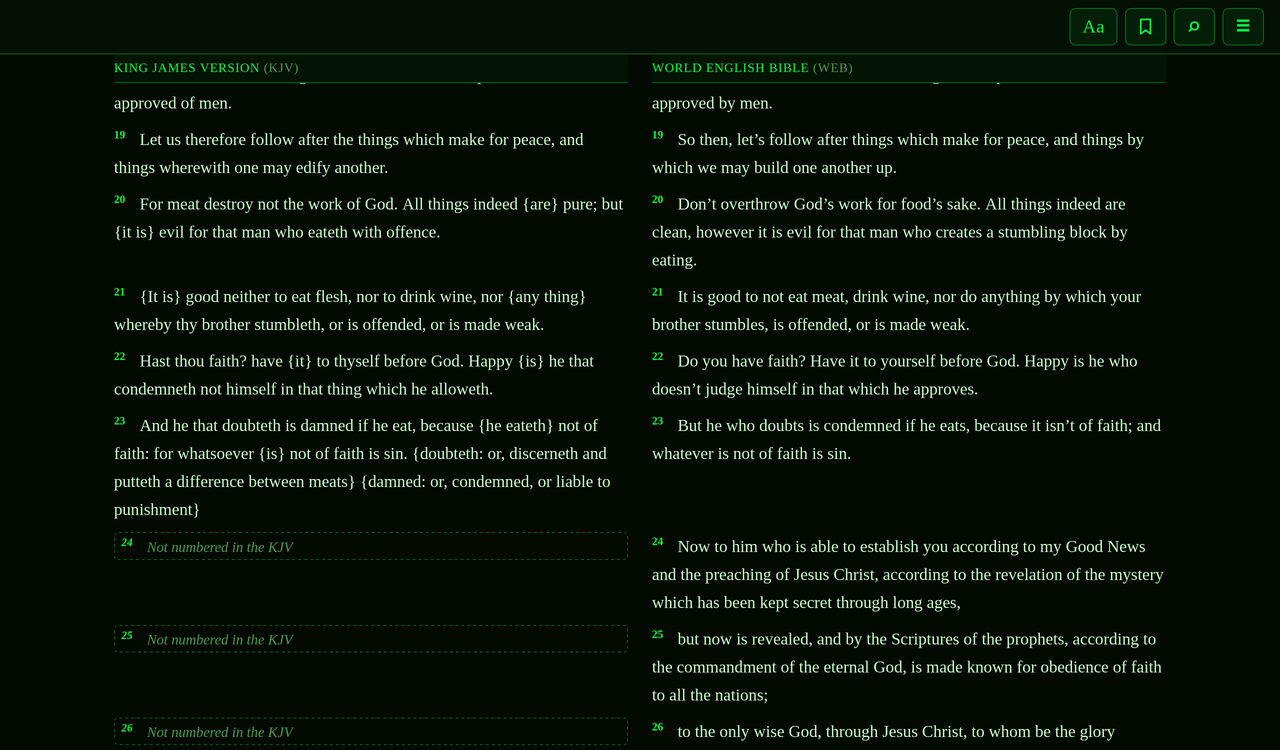
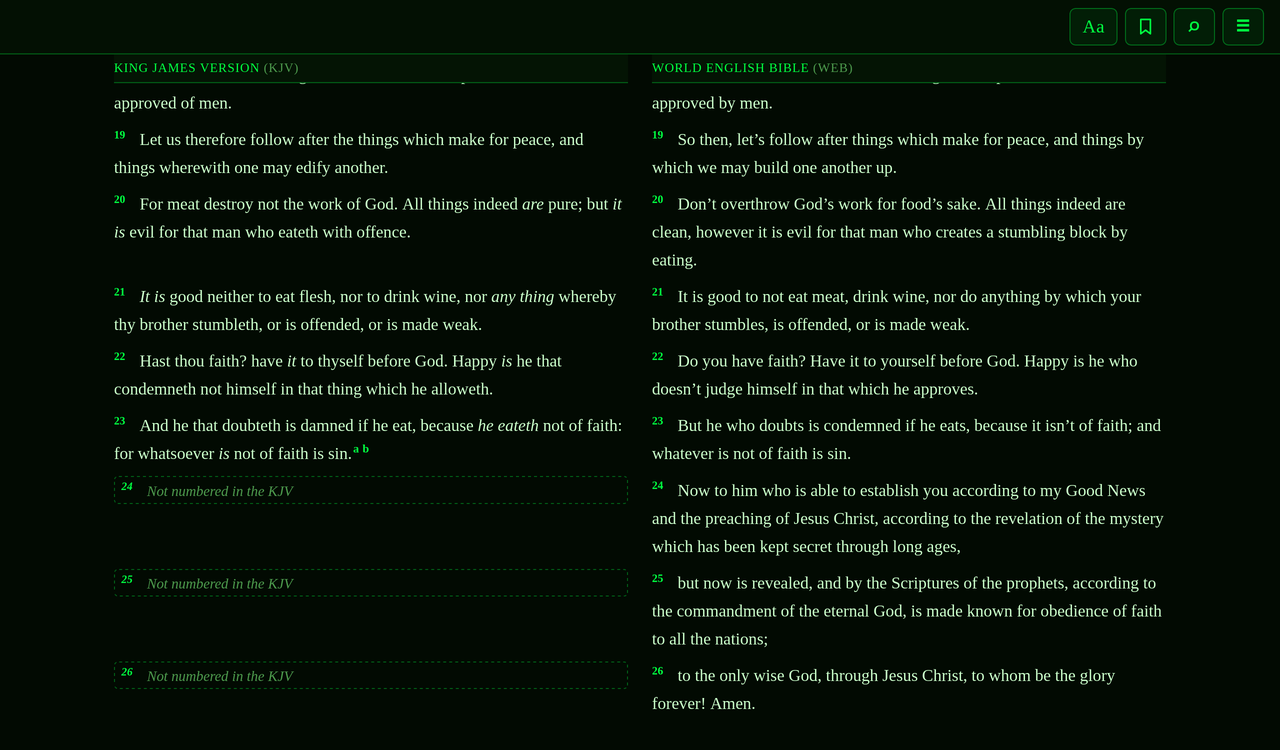
chore(release): bump version to 2.10.0 (#53)
Cargo.toml, Cargo.lock, tauri.conf.json and PKGBUILD pkgver: 2.9.1 -> 2.10.0 (pkgrel stays 1; PKGBUILD remains a draft, not AUR-published). The updater compares versions as numbers (its test has 2.9.0 < 2.10.0). The website shows version 2.10.0; Read in context says the KJV's supplied words are in italics and its margin notes are lettered footnotes, shown when you select a verse and listed at each chapter's end; Compare says the app shows the source's braces as print does, instead of as stored. Its compare image is recaptured at its old names and sizes (1600x1000, 800x500) with Psalms 23's italics, markers and Footnotes (KJV) section, with alt text to match. Its FAQ's "2.6 through 2.9 update themselves" stays true. The README adds a Footnotes (KJV) feature with a new screenshot (screenshots/footnotes.png: Psalms 23:4-6 with verse 6's footnote open and the chapter's Footnotes section). Copy gives the verse text, without the KJV's margin notes; search indexes the text as shown and 2.10.0 rebuilds the index once; Data provenance says the stored text keeps the markup, the reader, Copy, search and Export notes present it as print does, and the four verses with broken markup are shown as stored. Updates says 2.6.0 through 2.9.1 update themselves to 2.10.0 while 2.5.0 and older install it by hand once. reading-neighboring-chapters.png (1280x850), compare-translations.png (1280x750) and bookmarks.png (1280x850) showed KJV braces and are recaptured at their old sizes and framing,
[…]

diff --git a/site/index.html b/site/index.html
@@ -60,7 +60,7 @@
                         <a class="button button-primary" href="#download-windows">Download for Windows</a>
                         <a class="button button-secondary" href="#download-linux">Download for Linux</a>
                     </div>
-                    <p class="hero-note">Version 2.9.1, for 64-bit Windows and Linux computers. The Windows installer isn’t code-signed yet, so Windows will probably warn you before it runs. <a href="#faq-smartscreen">What to expect</a>.</p>
+                    <p class="hero-note">Version 2.10.0, for 64-bit Windows and Linux computers. The Windows installer isn’t code-signed yet, so Windows will probably warn you before it runs. <a href="#faq-smartscreen">What to expect</a>.</p>
                     <p class="touch-only touch-note">Gospel Getter is a desktop app for <strong>Windows and Linux computers</strong>. There’s no phone, tablet or Mac version. To install it, open this page on your computer.</p>
 
                     <ul class="facts">
@@ -92,6 +92,7 @@
                         <h3>Read in context</h3>
                         <p>The chapter you’re reading sits in the middle, with the chapters before and after it faded on either side, as in the picture above. Press <kbd>←</kbd> and <kbd>→</kbd> to turn chapters across the whole Bible, from Genesis 50 straight into Exodus 1. Or pick a book and chapter, or try a random chapter.</p>
                         <p>Click a verse to see related passages, and click one of them to read it in place. The cross-references come from OpenBible.info.</p>
+                        <p>In the KJV, words the translators supplied are in italics, as in printed KJVs, and its margin notes are lettered footnotes. Select a verse to read its notes, or find all of a chapter’s notes at its end.</p>
                     </div>
                 </div>
 
@@ -136,14 +137,14 @@
                     <div class="feature-text">
                         <h3>Compare KJV and WEB</h3>
                         <p>Press <kbd>C</kbd> to read the King James Version and the World English Bible side by side, one row per verse. Where only one translation numbers a verse, the other column says so instead of shifting anything.</p>
-                        <p>Both texts are stored exactly as their public-domain sources provide them. In the KJV that includes the source’s own bracketed notes, such as <code>{is}</code>.</p>
+                        <p>Both texts are stored exactly as their public-domain sources provide them. The KJV’s source marks supplied words and margin notes in braces, and the app shows them as print does: the words in italics, the notes as footnotes.</p>
                     </div>
                     <figure class="shot">
                         <img src="assets/compare-1600.webp"
                              srcset="assets/compare-800.webp 800w, assets/compare-1600.webp 1600w"
                              sizes="(min-width: 56rem) 42rem, calc(100vw - 2rem)"
                              width="1600" height="1000" loading="lazy" decoding="async"
-                             alt="Psalms 23 in compare mode in the Matrix theme: the King James Version and the World English Bible in two columns, one row per verse. The KJV column shows its source’s bracketed notes, such as “{is}”.">
+                             alt="Psalms 23 in compare mode in the Matrix theme: the King James Version and the World English Bible in two columns, one row per verse. The KJV column sets the words its translators supplied, such as “is” and “art”, in italics, with small letters marking its margin notes, which are listed under the psalm as “Footnotes (KJV)”.">
                     </figure>
                 </div>
             </div>
@@ -222,7 +223,7 @@
         <section class="section section-alt download" id="download" aria-labelledby="download-title">
             <div class="wrap">
                 <h2 id="download-title">Download Gospel Getter</h2>
-                <p class="release-line"><strong>Version 2.9.1.</strong> Free, for 64-bit Windows and Linux. <a href="https://github.com/tossbaws/gospel-getter/releases/latest">What’s new</a></p>
+                <p class="release-line"><strong>Version 2.10.0.</strong> Free, for 64-bit Windows and Linux. <a href="https://github.com/tossbaws/gospel-getter/releases/latest">What’s new</a></p>
                 <p class="touch-only touch-note">You seem to be on a phone or tablet. Gospel Getter runs on <strong>Windows and Linux computers</strong> only, so open this page on your computer to install it.</p>
 
                 <div class="platforms">

diff --git a/README.md b/README.md
@@ -9,7 +9,7 @@ at a time with the chapters before and after shown alongside, search the
 whole Bible, compare the two translations verse by verse, and copy,
 bookmark or write notes on passages. No account and no network needed.
 
-![The reading view in the Matrix theme: John 3 in the centre, with John 2 and John 4 faded on either side, under the chapter picker](screenshots/reading-neighboring-chapters.png)
+![The reading view in the Matrix theme: John 3 in the KJV in the centre, with John 2 and John 4 faded on either side, under the chapter picker. Supplied words such as "of" are in italics, and small letters after verses 3 and 7 mark their footnotes](screenshots/reading-neighboring-chapters.png)
 
 ## Features
 
@@ -26,8 +26,9 @@ bookmark or write notes on passages. No account and no network needed.
   current translation containing all your words, in Bible order, with the
   words highlighted.
 - **Copy verses with their reference.** Click a verse, Shift-click another
-  to select a range, then **Copy** or Ctrl+C. You get the text exactly as
-  stored, followed by e.g. `— John 3:16–18 (WEB)`.
+  to select a range, then **Copy** or Ctrl+C. You get the verse text (in
+  the KJV, without its margin notes), followed by e.g.
+  `— John 3:16–18 (WEB)`.
 - **Bookmarks.** Save a verse or range with **★ Bookmark**. Bookmarked
   verses get a ★, and the Bookmarks list in the Library (the bookmark
   button at the top, or Ctrl+B) reopens any of them in whichever
@@ -59,6 +60,14 @@ bookmark or write notes on passages. No account and no network needed.
   shifting anything.
 - **Cross-references.** Click a verse to see related passages, and click a
   citation to read it in place.
+- **Footnotes (KJV).** Translator-supplied words are in italics, as in
+  printed KJVs, and the margin notes are moved out of the text into
+  lettered footnotes. Select a verse (or click its letter) to see its
+  footnotes above its cross-references, and each chapter ends with a
+  Footnotes list of all of them, with the words each note is on in
+  italics. Copy and search use the verse text without the notes.
+
+  ![Psalm 23:4–6 in the KJV in the Matrix theme, with "art" in italics and small letters after verses 5 and 6. Verse 6 is selected: under the Copy, Bookmark and + Add note buttons, its Footnotes list "a for ever: Heb. to length of days" above its cross-references. Below the chapter, a Footnotes section lists 23:2a, 23:2b, 23:5a and 23:6a](screenshots/footnotes.png)
 - **Comfortable reading.** Six themes (Vaporwave, Classic Dark, Classic
   Light, Matrix, Beast Slayer, Hot Pink), four text sizes, three line
   spacings, and a distraction-free reading mode, all under **Aa** with the
@@ -95,7 +104,7 @@ bookmark or write notes on passages. No account and no network needed.
 
 ## A quick tour
 
-All six screenshots in this README, including the one at the top, use the
+All seven screenshots in this README, including the one at the top, use the
 Matrix theme. The other five themes are under **Aa**.
 
 **Search the text, or jump straight to a reference.** Matching words are
@@ -107,7 +116,7 @@ highlighted, and clicking a result opens and selects that verse.
 three verses the KJV doesn't, and the KJV column says so rather than
 shifting anything.
 
-![Romans 14 in compare mode in the Matrix theme, with KJV and WEB columns side by side and verses 24 to 26 marked "Not numbered in the KJV"](screenshots/compare-translations.png)
+![Romans 14 in compare mode in the Matrix theme, with KJV and WEB columns side by side, the KJV's supplied words in italics, and verses 24 to 26 marked "Not numbered in the KJV"](screenshots/compare-translations.png)
 
 **Select a range and copy it with its reference.** The citation underneath
 shows exactly what will be copied.
@@ -117,7 +126,7 @@ shows exactly what will be copied.
 **Bookmark passages and come back to them.** Bookmarked verses are starred
 in the text, and the Library (Ctrl+B) lists each one with a preview.
 
-![Psalm 23 with verses 1 to 4 starred in the Matrix theme, and the Library panel open on its Bookmarks tab, beside the Highlights and Notes tabs, listing Psalms 23:1–4, Romans 8:28 and John 3:16](screenshots/bookmarks.png)
+![Psalm 23 in the KJV with verses 1 to 4 starred in the Matrix theme, above its Footnotes and Cross References, and the Library panel open on its Bookmarks tab, beside the Highlights and Notes tabs, listing Psalms 23:1–4, Romans 8:28 and John 3:16](screenshots/bookmarks.png)
 
 ## Keyboard
 
@@ -196,14 +205,14 @@ without you choosing **Update and restart**.
 latest version, so GitHub sees your IP address, as with any download.
 Nothing about your reading or your data is sent.
 
-**Coming from 2.6.0, 2.7.0, 2.8.0 or 2.9.0?** Each updates itself to
-2.9.1: it offers the update when it starts (or from **Check now**, in
-**About Gospel Getter** from the ☰ menu in 2.7.0, 2.8.0 and 2.9.0, or in
-the Updates section of Settings in 2.6.0), if it's one of the installs
-above that update themselves.
+**Coming from 2.6.0 through 2.9.1?** Each updates itself to 2.10.0: it
+offers the update when it starts (or from **Check now**, in **About
+Gospel Getter** from the ☰ menu in 2.7.0 and later, or in the Updates
+section of Settings in 2.6.0), if it's one of the installs above that
+update themselves.
 
 **Coming from 2.5.0 or older?** Those versions can't update themselves.
-Install 2.9.1 by hand once, from the
+Install 2.10.0 by hand once, from the
 [latest release](https://github.com/tossbaws/gospel-getter/releases/latest),
 over your current version; updates after that can come from inside the app.
 Upgrading keeps your data.
@@ -217,7 +226,9 @@ Upgrading keeps your data.
   it's under `%APPDATA%\com.tossbaws.gospel-getter\`.
 - **Upgrades keep your data.** A new version adds any new tables and builds
   the search index once, in the background, without changing scripture
-  text, your reading position, bookmarks, highlights or notes. Moving back to an older
+  text, your reading position, bookmarks, highlights or notes. 2.10.0
+  rebuilds the index once, by itself, so KJV search leaves out the margin
+  notes. Moving back to an older
   version after upgrading hasn't been tested.
 - Theme, text size, line spacing, compare and reading mode are display
   settings stored in the app's web storage, not the database.
@@ -254,7 +265,8 @@ whole database) so it seeds again.
 - **Logic:** `domain/bible.rs` works out the previous and next chapter, and
   `domain/query.rs` decides whether search input is a reference or words.
 - **Search:** uses an SQLite FTS5 index derived from `verses`. It's never
-  written back, and results always show the stored text.
+  written back. It indexes each verse's text as the reader shows it (for
+  the KJV, without the margin notes), and results show that text.
 - **Copying:** uses the webview's own clipboard API, with no plugin or extra
   permission.
 
@@ -281,10 +293,12 @@ stored exactly as their sources provide them.
   `{...}`, in about 56% of verses. These are kept verbatim, including a
   few places where the source's own markup is broken (Hebrews 10:34 has an
   unmatched `}`). The only changes are structural: removing the file's
-  byte-order mark and reshaping the JSON. The reader, Copy and search show
-  this markup as stored; only **Export notes…** presents it as print does,
-  with supplied words in italics and margin notes left out, and it quotes
-  the four verses with broken markup as stored.
+  byte-order mark and reshaping the JSON. The stored text keeps the
+  markup; the app only changes how it's shown. The reader, Copy, search
+  and **Export notes…** present it as print does: supplied words in
+  italics (plain in Copy and search), and margin notes as lettered
+  footnotes in the reader, left out of Copy, search and the export. The
+  four verses with broken markup are shown as stored, braces and all.
 - **WEB** comes from TehShrike/world-english-bible (public domain, via
   ebible.org). Verses the source splits into several entries, as in the
   Psalms' poetry, are joined back together in the source's own order, with
